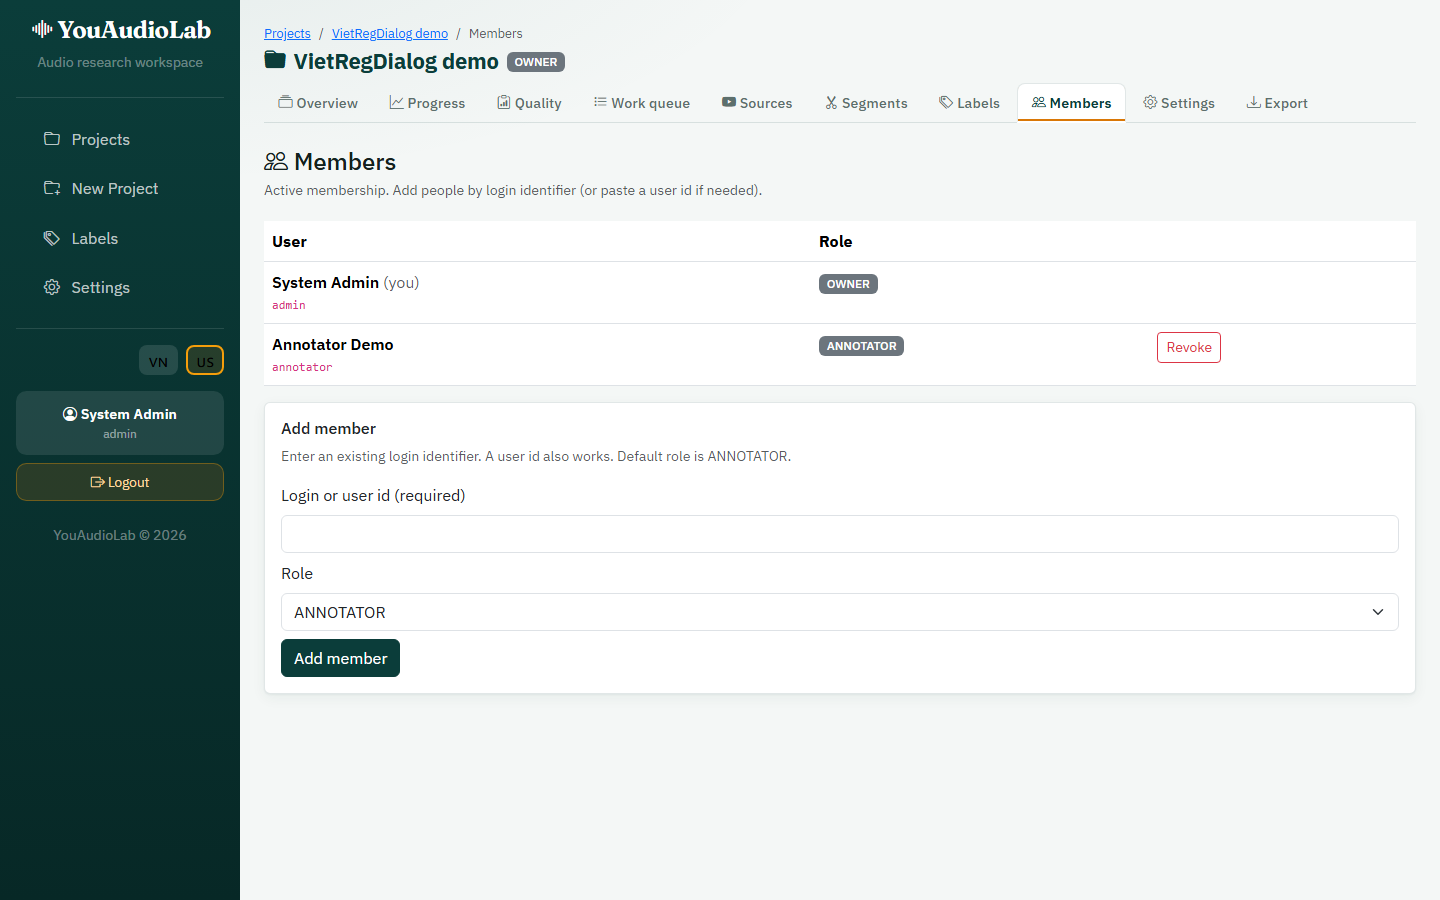
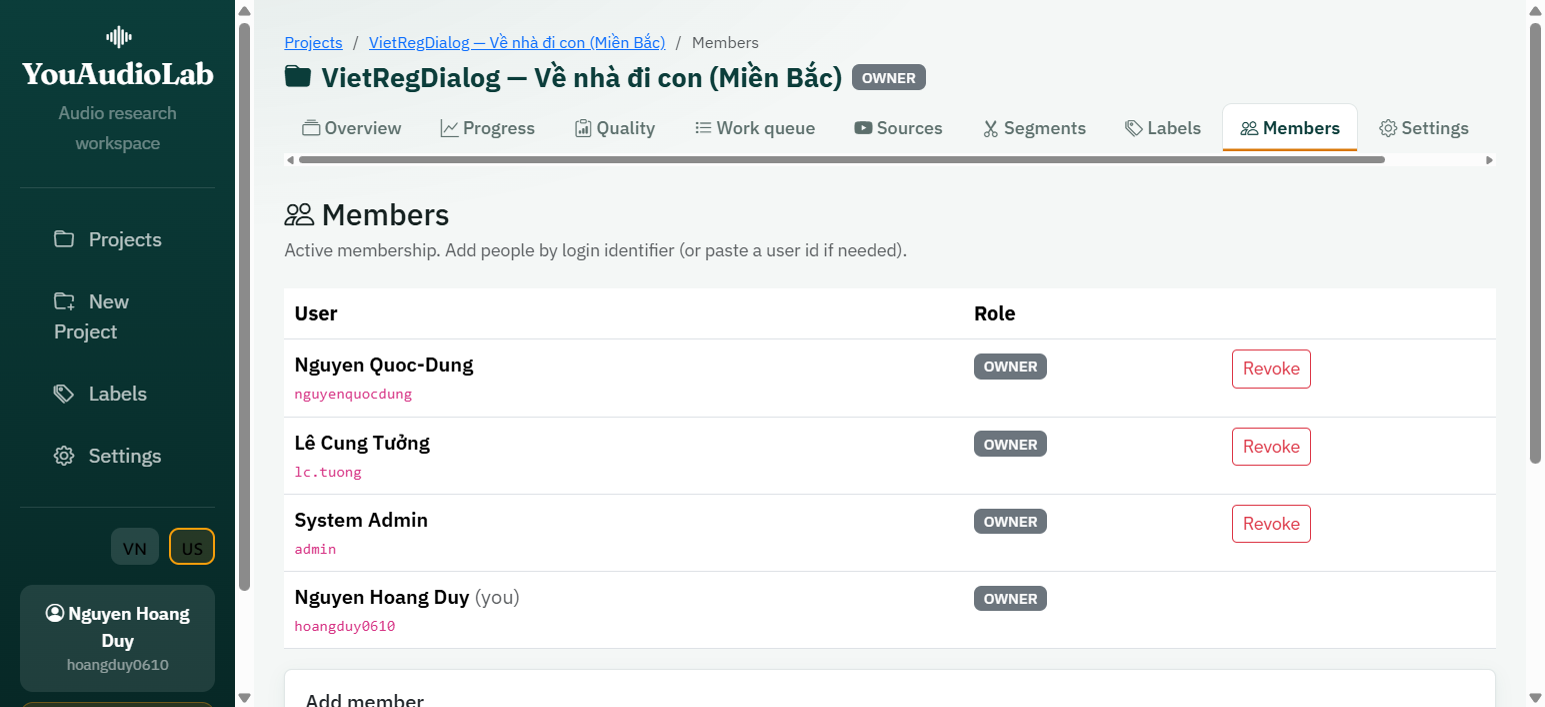
update example

diff --git a/docs/EXAMPLE.md b/docs/EXAMPLE.md
@@ -1,123 +1,164 @@
-# Example: one VietRegDialog cut through YouAudioLab
+# Example: inspecting the VietRegDialog pilot UI
 
-This walk-through follows one YouTube cut from the **VietRegDialog** regional
-speech inventory and the records written for that cut. It is documentation for
-the repository, not a timed user study. The SoftwareX manuscript points here
-instead of embedding screenshots in the article.
+This page is an **interface inspection** of the hosted project
+**[VietRegDialog — Về nhà đi con (Miền Bắc)](https://youaudiolab.duthu.net/projects/92652c59-5d8d-4223-9b5a-7ece25f8a591/)**.
+It shows how protocol, verified audio, labels, gold, and export look in the
+product UI. It is **not** a reproduction of manuscript §3.1 machine timing or
+checksum trials, and it is **not** the §3.2 human–AI session. Those numbers
+live in the manuscript and in
+[README — Illustrative evaluation](../README.md#illustrative-evaluation).
 
-The cut is **Miền Bắc** dialogue from the film *Về nhà đi con*
-(`audio_manifest.csv` id `MB_219`, YouTube `wNz1nnglh8A`, **1435.0–1447.0 s**,
-12 s). Project labels are the three region classes from
-`VietRegDialog.xlsx`: `Miền bắc`, `Miền nam`, and `Miền trung` (whole-segment
-scope). Interface figures under
+Sign in with the [live demo account](../README.md#live-demo)
+(`hoangduy0610`). Appendix screenshots under
 [`software/figures/appendix/`](software/figures/appendix/) were captured from
-the seeded **VietRegDialog demo** project
-(`docs/software/figures/seed_appendix_demo.py`).
+this project on **27 Oct 2026**. If the live host changes, treat those PNGs as
+the frozen UI reference; the URLs below are convenience links only.
+
+The SoftwareX manuscript points here instead of embedding UI figures in the
+article. The intended flow to read against §3.1 capabilities is: protocol →
+source and cut → verified artifact → accepted transcript → labels / gold →
+`by_source` export. Steps below mostly **inspect a pilot already built on the
+host**, rather than clicking import → extract from an empty project.
+
+## Sample shared with the evaluation
+
+| Field | Value |
+|---|---|
+| Redistributed metadata | [`software/eval/sample_segments.csv`](software/eval/sample_segments.csv) (seed **42**, **60** segments, **19** distinct `video_id` values) |
+| Live Quality summary at capture | **18** sources · **60** segments · license `research-only` |
+| Example cut | Segment #1 · **1129.0–1148.0 s** · sample id **`MB_212`** · `video_id` `UyhV-OfRKfg` |
+| Timed §3.1 media | Pre-extracted local MP3s (not redistributed). Host WAVs were cut from YouTube for this workspace and are a **different byte store**. |
+
+The live Sources table showed one fewer Ready source than the 19 `video_id`
+values in the CSV. Prefer the CSV (and an export snapshot) for video-level
+membership; use the live UI to inspect controls and provenance fields.
 
 ## 1. Protocol
 
-1. Create a project named **VietRegDialog demo** and set the language to `vi`.
-2. Leave audio defaults at **WAV / PCM / 16 kHz / mono**.
-3. Turn readiness gates on so a segment needs a transcript and at least one
-   label before export.
-4. Keep **blind labelling** on.
-5. Enter a licence string and a short consent note on project settings (both
-   are copied into research JSON and the quality report).
-6. Add annotators as project members (**owner** vs **annotator**).
-7. Define three project labels with scope **whole segment**: `Miền bắc`,
-   `Miền nam`, `Miền trung`.
+1. Open the project overview. Language is **`vi`**. Status is **Active**.
 
-   ![Label settings with the three VietRegDialog region labels.](software/figures/appendix/figure-a3-labels.png)
+   ![Project overview for VietRegDialog — Về nhà đi con (Miền Bắc).](software/figures/appendix/figure-a1-overview.png)
 
-8. Only users on the system allowlist can change the global recognition
-   endpoint (`ASR_ADMIN_USER_IDS`).
+2. In **Settings**, audio defaults are **WAV / PCM / 16 kHz / mono**.
+3. Readiness gates are on: **Audio OK**, a non-empty transcript, and at least
+   one active annotation.
+4. **Hide peer labels from annotators (blind)** is on. Owners still see every
+   episode.
+5. License is **`research-only`**. Consent notes state that pilot metadata
+   comes from `sample_segments.csv` and that YouTube media is fetched by the
+   platform worker.
+6. **Members** lists four **OWNER** accounts (`nguyenquocdung`, `lc.tuong`,
+   `admin`, `hoangduy0610`). This inspection does **not** demo a second
+   annotator or overlap IAA. Add an **ANNOTATOR** and double-assign via **Work
+   queue** when you need ≥2 labelers on one segment.
 
-## 2. A cut and an accepted transcript
+   ![Project members on the live VietRegDialog demo.](software/figures/appendix/figure-a2-members.png)
 
-1. Import the YouTube URL for the episode. After the source is ready, it
-   appears in the project source list as *Về nhà đi con*.
+7. Project labels: whole-segment **`Miền bắc`**, **`Miền nam`**,
+   **`Miền trung`**, plus optional **`Toxic`** (text-in-transcript). Progress
+   at capture: **54** `Miền bắc` episodes; the other region labels unused.
 
-   ![Source list after the VietRegDialog YouTube video has been imported.](software/figures/appendix/figure-a4-sources.png)
+   ![Label settings with region labels and a Toxic span label.](software/figures/appendix/figure-a3-labels.png)
 
-2. Create a segment from **1435.0 s to 1447.0 s** (manifest `MB_219`) and queue
-   **extract** when a worker is available.
-3. Set the accepted transcript to the dialogue text from the **Miền Bắc** sheet
-   of `VietRegDialog.xlsx` for those bounds, for example:
+## 2. Sources, cut, verified artifact, transcript
+
+1. **Sources** lists imported YouTube episodes (channel *VTV Phim Việt Xưa*)
+   with **Ready** after metadata succeeds. Importing a URL and creating new
+   bounds is the usual empty-project path; here those rows already exist.
+
+   ![Source list for VietRegDialog YouTube episodes.](software/figures/appendix/figure-a4-sources.png)
+
+2. Open **Segment #1** on *VỀ NHÀ ĐI CON - Tập 28*, bounds
+   **1129.0–1148.0 s** (19 s) · `definition_revision` **1**. This matches
+   sample row **`MB_212`**.
+
+3. **Verified artifact (I2 surface).** Under **Advanced tools → Current
+   artifact**, the segment shows **Verified** from a succeeded extract job
+   (attempt 1): **WAV · 16000 Hz · 1 ch**, size **608078** bytes, created
+   13 Oct 2026. The workspace card does not print the SHA-256 string; that
+   checksum is stored on the artifact and written into research JSON / the
+   dataset ZIP when you export. Re-reading bytes against the stored digest on
+   the §3.1 pilot files is covered by the integrity scripts under
+   [`software/eval/`](software/eval/), not by this UI walk-through.
+
+   ![Verified current artifact: WAV 16 kHz mono and extract job history.](software/figures/appendix/figure-a5b-artifact.png)
+
+4. **Revision consistency (I1).** Saving new start/end bounds bumps
+   `definition_revision`. A job still running against an older
+   `expected_revision` is marked stale and cannot replace the current
+   artifact. This EXAMPLE does **not** run that race on the live host; see
+   [`software/eval/PROTOCOL.md`](software/eval/PROTOCOL.md) and the stale /
+   race tests referenced there.
+
+5. Accepted transcript on this segment:
 
    ```text
-   A: Này, Hai đứa thấy chị Huệ đâu không?
-   B: Chị Huệ bảo chị gia cửa hàng mà bố.
-   A: Sao thằng Khải lại sang đây tìm nhở?
-   C: Chắc là chị ý ghét quá không muốn nhìn mặt bố ạ.
-   A: Luyên thuyên.
+   A: Này.
+   B: Dạ.
+   A: Con có sợ mùi gì nữa không để hàng ngày nấu cơm bố tránh gia.
+   B: Con chẳng biết. Chắc là phải trải nghiệm từ từ bố ạ. Cái này ăn được này.
+   C: Ăn được hả? Mai chị lại làm tiếp cho nhá.
    ```
 
-4. Optionally queue **recognition** and compare the candidate to that text, then
-   keep the accepted transcript you verified.
+6. Project ASR is **local / PhoWhisper small**. A recognition candidate may
+   differ from the accepted text; only **Use in transcript box** (or a manual
+   edit) updates the canonical transcript. That apply step is the human gate
+   between ASR history and the exported text.
 
-   ![Segment workspace: VietRegDialog cut bounds, transcript, region labels, and gold.](software/figures/appendix/figure-a5-workspace.png)
+   ![Segment workspace: transcript, region chips, Toxic span, and gold.](software/figures/appendix/figure-a5-workspace.png)
 
-5. If you later change the end time, `definition_revision` increases. A job
-   still running against the old revision cannot become the current artifact.
+## 3. Labels and gold on the same cut
 
-## 3. Labels on the same cut
+1. Whole-segment chips: **`1 Miền bắc`**, **`2 Miền nam`**, **`3 Miền trung`**.
+   On Segment #1 the active episode is **`Miền bắc`** (Nguyen Quoc-Dung).
+2. Owner gold is also **`Miền bắc`**. Annotators never see gold while blind is
+   on.
+3. Optional schema demo: a **`Toxic`** character span on a dragged phrase.
+   Spans travel in research JSON / `spans.csv`; they do not change
+   whole-segment gold or Progress Jaccard / κ.
+4. Blind and multi-annotator agreement are product features; this live project
+   at capture did not show overlap (≥2 annotators on one segment). Use Work
+   queue when you need those metrics.
 
-1. Assign the segment so two people can label it (owner and annotator).
-2. The owner selects **`Miền bắc`**. The annotator selects **`Miền nam`**.
-   With blind labelling on, neither sees the other’s row in the workspace.
-3. Pairwise Jaccard for `{Miền bắc}` vs `{Miền nam}` is
-   `|A ∩ B| / |A ∪ B| = 0 / 2 = 0` before adjudication.
-4. The owner saves **gold** as `Miền bắc`. Annotator rows remain in the
-   research export; training views that use the `gold` supervision policy keep
-   `Miền bắc` only.
-5. Optional text span: if a token in the accepted transcript needs a
-   phrase-level tag, drag that span and assign a text-scoped label. That
-   `TranscriptSpan` does not change whole-segment gold or the Jaccard figure
-   above.
+## 4. Export (I3 surface)
 
-## 4. Export
-
-1. Export a zip with supervision policy **`gold`**, split strategy
-   **`by_source`**, seed **`42`**, and ratios **`0.8 / 0.1 / 0.1`**.
+1. **Export** → format **ZIP — audio + metadata + README**, supervision
+   **`gold`**, split **`by_source`**, seed **`42`**, ratios
+   **`0.8 / 0.1 / 0.1`**, **ready-only** as needed.
 
    ![Export form: ZIP package, gold supervision, by-source split, seed 42.](software/figures/appendix/figure-a6-export.png)
 
-2. The archive writes verified audio under `audio/` (when extract has produced
-   a current artifact) and points `metadata.csv` at that path beside the
-   transcript, start/end times, video title, and active text spans.
+2. The ZIP places verified WAVs under `audio/` and points `metadata.csv` at
+   each path beside transcript, times, title, and active spans.
 3. `spans.csv` repeats the YouTube link and clip interval on each span row.
-4. Research JSON describes the file by checksum and sample rate (no embedded
-   waveform) and keeps annotator rows, gold names, `supervised_labels`, and
-   `text_spans`. Schema version is **`youaudiolab.research_dataset` 1.2**.
-5. For this segment the gold training view contains `Miền bắc` and not
-   `Miền nam`.
-6. Additional videos from other VietRegDialog sheets would each receive their
-   own fold under `by_source`: the split is on video identifiers, then copied
-   onto segments. Same inputs reproduce the same folds; the content hash is
-   unchanged if only the export clock changes.
+4. Research JSON keeps checksum, sample rate, annotator rows, gold,
+   `supervised_labels`, `text_spans`, and split assignment. Schema:
+   **`youaudiolab.research_dataset` 1.2**.
+5. For Segment #1, gold training views keep **`Miền bắc`**. The Toxic span is
+   not a whole-segment supervised label.
+6. `by_source` assigns each video id to one fold; segments inherit that fold.
+   `content_hash` ignores the export clock.
 
 Word times from a recognition run are not written into these files. The
-published item is the checksummed waveform with its bounds, transcript, and
-optional character spans—not a text row alone.
+published item is the checksummed waveform with bounds, transcript, and
+optional character spans.
 
-## Reproduce the demo screenshots
+## Open the same project
 
-```powershell
-cd YouAudioLab
-docker compose up -d db redis
-python manage.py migrate
-python manage.py seed_admin --write-env
-python manage.py runserver 8001
-# other terminal: celery -A config.celery worker --loglevel=info --pool=solo
-python docs/software/figures/seed_appendix_demo.py --login admin --prefer-id MB_219
-python docs/software/figures/capture_appendix_a.py
-```
-
-IDs for the last seed are written to
-`docs/software/figures/appendix_demo_ids.json`.
+| Field | Value |
+|---|---|
+| Hosted project | [https://youaudiolab.duthu.net/projects/92652c59-5d8d-4223-9b5a-7ece25f8a591/](https://youaudiolab.duthu.net/projects/92652c59-5d8d-4223-9b5a-7ece25f8a591/) |
+| Login | [README — Live demo](../README.md#live-demo) |
+| Example segment | [Segment #1 · 1129.0–1148.0 s](https://youaudiolab.duthu.net/projects/92652c59-5d8d-4223-9b5a-7ece25f8a591/segments/ff1918bf-c77a-4258-9df5-8fe7af0c8fa9/) |
+| Sample metadata | [`software/eval/sample_segments.csv`](software/eval/sample_segments.csv) (`MB_212`) |
+| Screenshots captured | 27 Oct 2026 |
+| §3.1 integrity scripts | [`software/eval/`](software/eval/) |
 
 ## Related reading
 
+- [README — Live demo](../README.md#live-demo)
+- [README — Illustrative evaluation](../README.md#illustrative-evaluation)
 - [README — Building a corpus](../README.md#building-a-corpus)
 - [README — Export formats](../README.md#export-formats)
+- [software/eval/PROTOCOL.md](software/eval/PROTOCOL.md)
 - SoftwareX manuscript drafts under [`software/`](software/)
